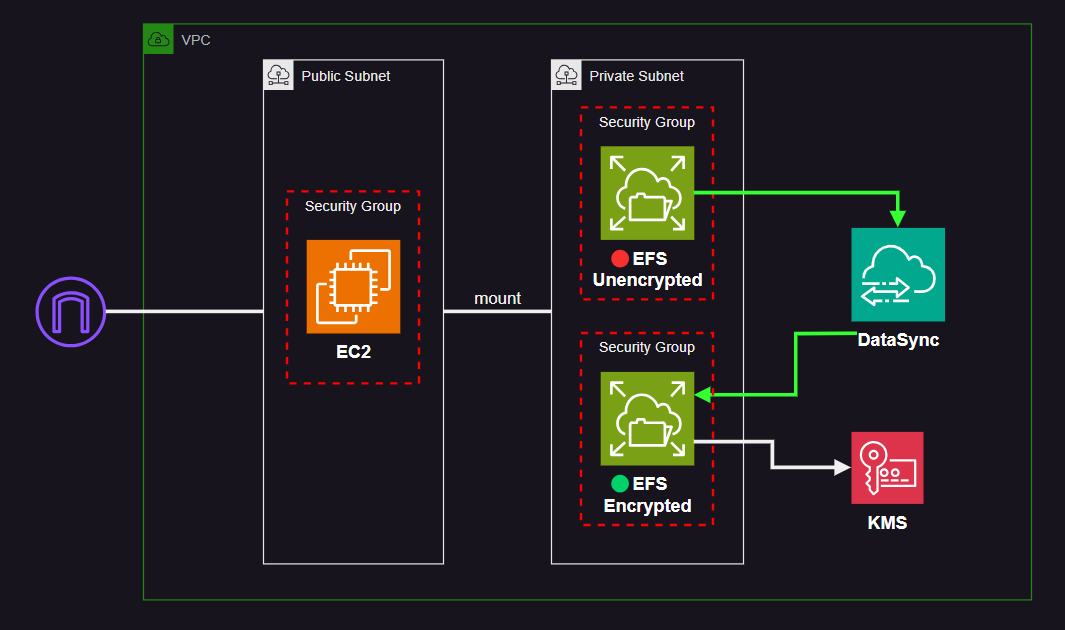
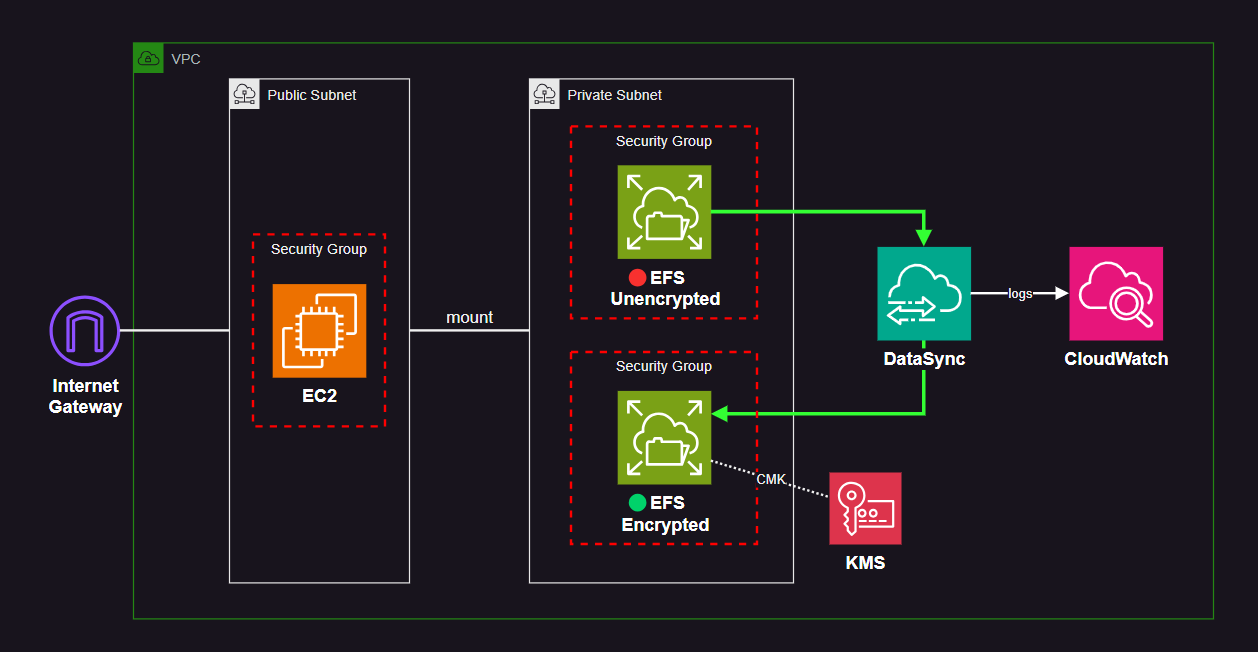
fixed egress, added cwlogs

Changed region(s): [[0.031, 0.0302, 0.9606, 0.9048], [0.1239, 0.9349, 0.9606, 0.9651]]

diff --git a/README.md b/README.md
@@ -10,7 +10,7 @@ A few notes about EFS encryption:
 - **EFS encryption** - It is not possible to encrypt an existing EFS. You have to migrate the data to a new encrypted EFS.
 - **Encrypting metadata at rest** - Amazon EFS uses the AWS managed key for Amazon EFS, `aws/elasticfilesystem`, to encrypt and decrypt file system metadata (that is, file names, directory names, and directory contents).
 
-<img src=".assets/efs.png" width=550 />
+<img src=".assets/efs.png" width=700 />
 
 ## Setup
 
@@ -35,18 +35,16 @@ cd ~/efs-mount-point
 sudo chmod go+rw .
 ```
 
-## DataSync
+## Trigger DataSync
 
-An AWS DataSync task will be created as part of the infrastructure. To trigger it from the CLI:
+An AWS DataSync task will be created as part of the infrastructure.
+
+Trigger the task from the CLI:
 
 ```sh
 aws datasync start-task-execution --task-arn <arn>
 ```
 
-https://docs.aws.amazon.com/efs/latest/ug/installing-amazon-efs-utils.html#installing-other-distro
-
-
-
-
+Use the console to monitor the execution and check CloudWatch logs for troubleshooting.
 
 [1]: https://docs.aws.amazon.com/efs/latest/ug/wt1-test.html
